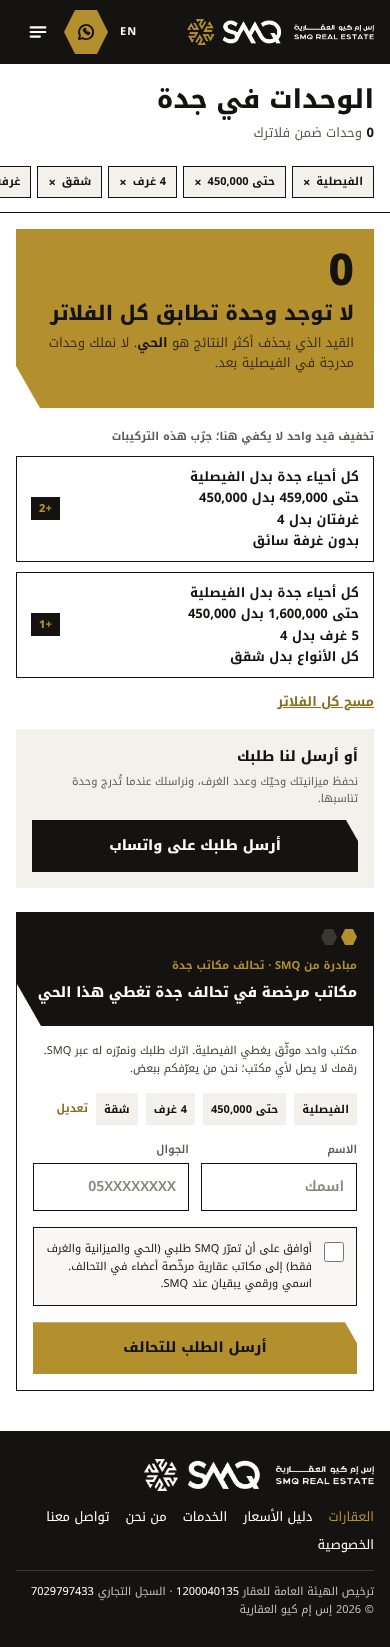
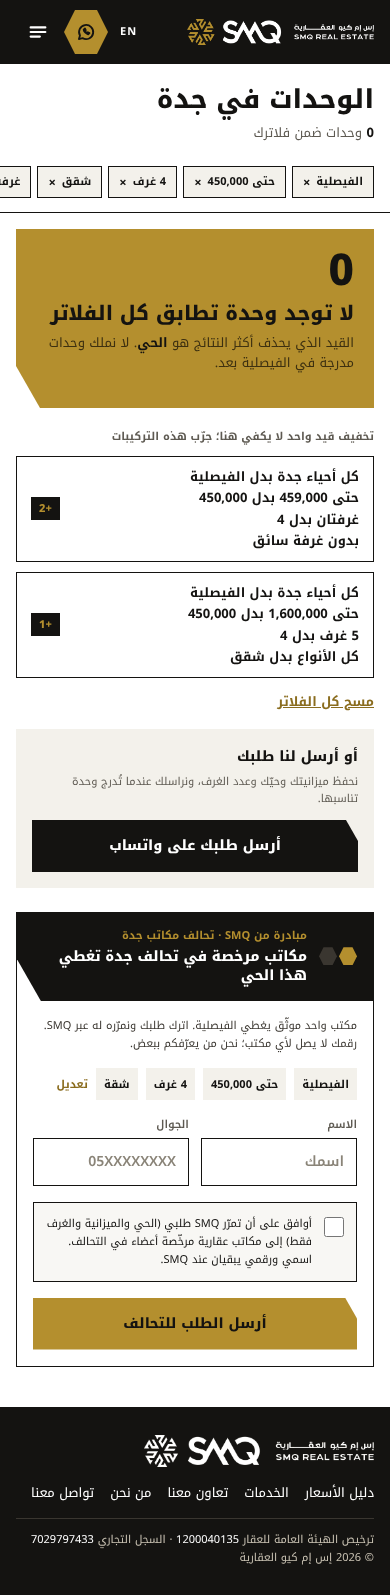
G2 board review: results, sold strip, compare bar, empty state bridge, map, request sent
- Phone sold strip opens with the latest sale; «عرض N وحدات أخرى» counts the
  folded cards and sales; sold units list newest first (AR and EN)
- Results footer links and compare bar names as drawn; toolbar and map-bar
  control heights; title row alignment
- Alliance bridge header and panel spacing on the empty state
- Map: «موقعي» button, «2 حمام» side list, budget-only registered state
- Request-sent info row hexagons

Claude-Session: https://claude.ai/code/session_01RctsPUCwu79Fhv9ujF1kfR

diff --git a/components/pages/g2/ResultsPage.tsx b/components/pages/g2/ResultsPage.tsx
@@ -3,7 +3,7 @@
 // Filters, sort and the compare selection (`u=`) live in the URL; everything shown is computed from the fixtures.
 import Link from "next/link";
 import { useEffect, useState } from "react";
-import { CompareBar, Container, Footer, Header, LoadMore, Pill, Price, Skeleton, StatusBadge, UnitCard, useCompare } from "@/components/ui";
+import { CompareBar, Container, Footer, Header, LoadMore, MENU_AR, Pill, Price, Skeleton, StatusBadge, UnitCard, useCompare } from "@/components/ui";
 import { bedsLabel, cx, fmtArea, fmtDate } from "@/lib/format";
 import { setQuery } from "@/lib/location";
 import { usePresenter, type Tier } from "@/lib/presenter";
@@ -21,7 +21,11 @@ import { useCompareUrl } from "./useCompareUrl";
 import { useHeaderOffset } from "./useHeaderOffset";
 
 const PAGE_PHONE = 4;
+/** the phone sold strip opens with the latest sale; the others come with «عرض … أخرى» (Results-M) */
+const SOLD_FIRST_PHONE = 1;
 const PAGE_DESKTOP = 6;
+/** the results footer as Results-M draws it: «دليل الأسعار · الخدمات · تعاون معنا · من نحن · تواصل معنا» */
+const RESULTS_FOOTER_LINKS = MENU_AR.filter((l) => ["/guide", "/services", "/collaborate", "/about", "/contact"].includes(l.href));
 const TIER: Record<Tier, ImageTier> = { real: "real", gen: "generated", typo: "typographic" };
 
 export const RESULTS_TITLE = "الوحدات في جدة";
@@ -46,7 +50,7 @@ function ProjectRow({ group, overrides, desktop }: { group: ProjectGroup; overri
         <span className={cx("font-extrabold", desktop ? "text-h3" : "text-[16px] leading-snug")}>{project.nameAr}</span>
         <span className="text-caption font-normal text-muted">{projectLine(project, desktop)}</span>
       </Link>
-      <Pill tone="sand" className="shrink-0">
+      <Pill tone="sand" className={cx("shrink-0", desktop && "md:px-2.5 md:py-2")}>
         {stats.available} من {stats.listed} متاحة
       </Pill>
     </div>
@@ -103,15 +107,18 @@ function flatCards(groups: ProjectGroup[]) {
   return groups.flatMap((g) => g.units.map((unit) => ({ unit, group: g })));
 }
 
-/** Results-M: project row, cards (four a page) with the delivery line, the sold strip, «عرض … أخرى» */
+/** Results-M: project row, cards (four a page) with the delivery line, the sold strip (the latest sale first), then
+ *  «عرض … أخرى» counting the cards and the sales still folded */
 function PhoneList({ groups, sold, overrides, tier }: ListProps) {
   const compare = useCompare();
   const cards = flatCards(groups);
-  const [visible, setVisible] = useState(PAGE_PHONE);
-  const remaining = Math.max(0, cards.length - visible);
+  const [pages, setPages] = useState(1);
+  const shownCards = Math.min(cards.length, pages * PAGE_PHONE);
+  const shownSold = pages > 1 ? sold.length : Math.min(sold.length, SOLD_FIRST_PHONE);
+  const remaining = cards.length - shownCards + (sold.length - shownSold);
   return (
     <div className="flex flex-col gap-3.5">
-      {regroup(cards.slice(0, visible)).map(({ group, units }) => (
+      {regroup(cards.slice(0, shownCards)).map(({ group, units }) => (
         <section key={group.project.id} aria-label={group.project.nameAr} className="flex flex-col gap-3.5">
           <ProjectRow group={group} overrides={overrides} />
           {units.map((unit) => (
@@ -119,15 +126,15 @@ function PhoneList({ groups, sold, overrides, tier }: ListProps) {
           ))}
         </section>
       ))}
-      {sold.length > 0 && (
+      {shownSold > 0 && (
         <>
           <SoldDivider />
-          {sold.map((u) => (
+          {sold.slice(0, shownSold).map((u) => (
             <UnitCard key={u.code} unit={u} status="sold" tier={tier} />
           ))}
         </>
       )}
-      {remaining > 0 && <LoadMore label={moreUnitsLabel(remaining)} onClick={() => setVisible((v) => v + PAGE_PHONE)} className="w-full" />}
+      {remaining > 0 && <LoadMore label={moreUnitsLabel(remaining)} onClick={() => setPages((n) => n + 1)} className="w-full" />}
     </div>
   );
 }
@@ -214,13 +221,13 @@ export function ResultsPage() {
     <>
       <Header showEn switchHref={unitsUrl({ ...r.filters, sheet: null, pin: null }, "/en/units")} />
       <main className="pb-10">
-        <Container className="pt-5 md:pt-8">
-          <div className="flex flex-col gap-1.5 md:flex-row md:items-center md:justify-between md:gap-6">
+        <Container className="pt-5 md:pt-9">
+          <div className="flex flex-col gap-1.5 md:flex-row md:items-end md:justify-between md:gap-6">
             <div className="flex min-w-0 flex-col gap-1.5">
               <h1 className="m-0 text-[26px] font-extrabold leading-tight md:text-[36px]">{RESULTS_TITLE}</h1>
               {status}
             </div>
-            {!isEmpty && <div className="hidden shrink-0 items-center gap-2.5 md:flex">{loading ? <ToolbarSkeleton /> : <SortControl value={r.filters.sort} onChange={sortChange} />}{!loading && <ViewToggle active="grid" gridHref={hrefs.grid} mapHref={hrefs.map} labels />}</div>}
+            {!isEmpty && <div className="hidden shrink-0 items-center gap-2.5 md:flex">{loading ? <ToolbarSkeleton /> : <SortControl value={r.filters.sort} onChange={sortChange} size="l" />}{!loading && <ViewToggle active="grid" gridHref={hrefs.grid} mapHref={hrefs.map} labels size="l" />}</div>}
           </div>
           {isEmpty && <ActiveChips filters={r.filters} className={cx("mt-4 hidden pb-4 md:flex", RULE_B)} />}
         </Container>
@@ -251,16 +258,16 @@ export function ResultsPage() {
           </Container>
         ) : (
           <>
-            <Container className="pt-4 md:hidden">{slow ? null : loading ? <PhoneListSkeleton /> : <PhoneList key={key} groups={r.groups} sold={r.result.sold} overrides={r.overrides} tier={tier} />}</Container>
+            <Container className="pt-4 md:hidden">{slow ? null : loading ? <PhoneListSkeleton /> : <PhoneList key={key} groups={r.groups} sold={r.sold} overrides={r.overrides} tier={tier} />}</Container>
             <Container className="hidden pt-6 md:grid md:grid-cols-[300px_minmax(0,1fr)] md:items-start md:gap-8">
               <div>{loading ? <FiltersColumnSkeleton /> : <FiltersColumn filters={r.filters} overrides={r.overrides} />}</div>
-              <div className="min-w-0">{slow ? null : loading ? <DesktopGridSkeleton /> : <DesktopList key={key} groups={r.groups} sold={r.result.sold} overrides={r.overrides} tier={tier} />}</div>
+              <div className="min-w-0">{slow ? null : loading ? <DesktopGridSkeleton /> : <DesktopList key={key} groups={r.groups} sold={r.sold} overrides={r.overrides} tier={tier} />}</div>
             </Container>
           </>
         )}
       </main>
       <CompareBar nameOf={(slug) => (unitBySlug(slug) ? compareName(unitBySlug(slug)!) : undefined)} />
-      <Footer compact />
+      <Footer compact links={RESULTS_FOOTER_LINKS} />
       <FiltersSheet filters={r.filters} overrides={r.overrides} />
     </>
   );

diff --git a/components/pages/g2/ResultsToolbar.tsx b/components/pages/g2/ResultsToolbar.tsx
@@ -54,12 +54,13 @@ export function FiltersButton({ count, href, variant = "list", className }: { co
 
 /**
  * «الترتيب: السعر، الأقل أولاً ▾» · a ghost control over a native select. `stacked` (the phone toolbar) puts the
- * prefix above the value so both fit the 136px the row leaves.
+ * prefix above the value so both fit the 136px the row leaves. Heights as drawn: `s` 36px (Results-Map-D bar),
+ * `m` 44px, `l` 48px (Results-D toolbar).
  */
-export function SortControl({ value, onChange, options, label = "الترتيب", prefix = "الترتيب:", stacked, size = "m", className }: { value: SortParam; onChange: (s: SortParam) => void; options?: { value: SortParam; label: string }[]; label?: string; prefix?: string | null; stacked?: boolean; size?: "m" | "s"; className?: string }) {
+export function SortControl({ value, onChange, options, label = "الترتيب", prefix = "الترتيب:", stacked, size = "m", className }: { value: SortParam; onChange: (s: SortParam) => void; options?: { value: SortParam; label: string }[]; label?: string; prefix?: string | null; stacked?: boolean; size?: "s" | "m" | "l"; className?: string }) {
   const opts = options ?? (Object.keys(SORT_LABELS) as SortParam[]).map((k) => ({ value: k, label: SORT_LABELS[k] }));
   const current = opts.find((o) => o.value === value) ?? opts[0];
-  const box = stacked ? "h-11 gap-1 px-2" : size === "s" ? "h-10 gap-2 px-2.5 text-[12px] font-bold" : "h-11 gap-2 px-3 text-label font-bold";
+  const box = stacked ? "h-11 gap-1 px-2" : size === "s" ? "h-9 gap-2 px-2.5 text-[12px] font-bold" : size === "l" ? "h-12 gap-4 px-3.5 text-label font-bold" : "h-11 gap-2 px-3 text-label font-bold";
   return (
     <span className={cx("relative inline-flex min-w-0 items-center justify-between border-interactive bg-paper text-ink", box, className)}>
       {stacked ? (
@@ -85,12 +86,18 @@ export function SortControl({ value, onChange, options, label = "الترتيب"
   );
 }
 
-/** Grid / map toggle: the active side is ink; the other side links to the other view with the same query */
-export function ViewToggle({ active, gridHref, mapHref, labels, size = "m", className }: { active: "grid" | "map"; gridHref: string; mapHref: string; labels?: boolean | "map"; size?: "m" | "s"; className?: string }) {
-  const item = cx("inline-flex h-full items-center justify-center gap-1.5 no-underline", labels ? "px-3" : "w-11", size === "s" ? "text-caption font-bold" : "text-label font-bold");
+const TOGGLE_H = { s: "h-[34px]", bar: "h-9", m: "h-11", l: "h-12" } as const;
+
+/**
+ * Grid / map toggle: the active side is ink; the other side links to the other view with the same query. Heights as
+ * drawn: `s` 34px (Results-Map-M bar), `bar` 36px (Results-Map-D bar), `m` 44px (phone toolbar), `l` 48px (Results-D).
+ */
+export function ViewToggle({ active, gridHref, mapHref, labels, size = "m", className }: { active: "grid" | "map"; gridHref: string; mapHref: string; labels?: boolean | "map"; size?: keyof typeof TOGGLE_H; className?: string }) {
+  const small = size === "s" || size === "bar";
+  const item = cx("inline-flex h-full items-center justify-center no-underline", labels ? (size === "s" || size === "m" ? "gap-1.5 px-3" : "gap-2 px-3.5") : "w-11 gap-1.5", small ? "text-caption font-bold" : "text-label font-bold");
   const words = labels === true || labels === "map";
   return (
-    <div role="group" aria-label="طريقة العرض" className={cx("inline-flex shrink-0 items-stretch border-interactive bg-paper", size === "s" ? "h-[34px]" : "h-11", className)}>
+    <div role="group" aria-label="طريقة العرض" className={cx("inline-flex shrink-0 items-stretch border-interactive bg-paper", TOGGLE_H[size], className)}>
       {active === "grid" ? (
         <span aria-current="true" aria-label={words ? undefined : "شبكة"} className={cx(item, "bg-ink text-paper")}>
           <GridIcon />

diff --git a/components/pages/g2/MapPage.tsx b/components/pages/g2/MapPage.tsx
@@ -135,12 +135,12 @@ function SideList({ pin, overrides, filters }: { pin: ResultPin | null; override
         {matched.map((u) => (
           <Link key={u.code} href={`/units/${u.slug}`} className="flex items-center gap-3 border-interactive bg-paper p-3 text-ink no-underline outline-gold -outline-offset-2 hover:outline-2 motion-hover">
             <ImageSlot slotId={u.images[0]} tier="generated" className="h-[72px] w-24 shrink-0" cut="img" showId={false} label={false} compact />
-            <span className="flex min-w-0 flex-1 flex-col gap-0.5">
+            <span className="flex min-w-0 flex-1 flex-col gap-1.5">
               <span className="text-label font-extrabold">
                 {u.code} · {UNIT_TYPE_AR[u.type]} · {u.buildingNameAr}
               </span>
               <span className="text-caption font-normal text-muted">
-                {bedsLabel(u.beds)} · {bathsLabel(u.baths)} · {fmtArea(u.areaM2)} م²
+                {bedsLabel(u.beds)} · {u.baths === 2 ? "2 حمام" : bathsLabel(u.baths)} · {fmtArea(u.areaM2)} م²
               </span>
               <span className="text-body font-extrabold tnum">
                 {fmtNum(u.priceSar)} <span className="text-caption font-semibold text-muted">{fmtNum(unitPpm(u))} للمتر</span>
@@ -189,6 +189,19 @@ export function MapPage() {
   const listHref = unitsUrl({ ...r.filters, sheet: null, pin: null });
   const close = () => setQuery({ pin: null }, "replace");
   const select = (id: string) => setQuery({ pin: id === r.filters.pin ? null : id }, "replace");
+  // «موقعي» (Results-Map-M): the browser's position selects the nearest pin; without a position the map stays as it is
+  const locate = () => {
+    if (typeof navigator === "undefined" || !navigator.geolocation) return;
+    navigator.geolocation.getCurrentPosition(
+      ({ coords }) => {
+        const d = (p: ResultPin) => (p.pin.centre.lat - coords.latitude) ** 2 + (p.pin.centre.lng - coords.longitude) ** 2;
+        const near = [...pins].sort((a, b) => d(a) - d(b))[0];
+        if (near) setQuery({ pin: near.id }, "replace");
+      },
+      () => {},
+      { timeout: 8000, maximumAge: 600_000 },
+    );
+  };
   const sortChange = (s: SortParam) => setQuery({ sort: s === "price" ? null : s }, "replace");
   const addChips = [!r.filters.district && "+ الحي", !r.filters.type.length && "+ النوع"].filter(Boolean) as string[];
   const hasChips = r.constraints.length > 0;
@@ -246,7 +259,7 @@ export function MapPage() {
                 ترتيب
                 <SortControl value={r.filters.sort} onChange={sortChange} options={MAP_SORT} prefix={null} label="ترتيب" size="s" />
               </label>
-              <ViewToggle active="map" gridHref={hrefs.grid} mapHref={hrefs.map} labels="map" className="h-10" />
+              <ViewToggle active="map" gridHref={hrefs.grid} mapHref={hrefs.map} labels="map" size="bar" />
             </div>
           </Container>
         </div>
@@ -255,7 +268,7 @@ export function MapPage() {
           <div className={cx("hidden min-h-0 md:flex md:flex-col", RULE_E)}>
             <SideList pin={selected} overrides={r.overrides} filters={r.filters} />
           </div>
-          <SchematicMap variant="phone" pins={pins} selectedId={selected?.id ?? null} onSelect={select} regionLabel="جدة · شمال وسط" className="min-h-[260px] flex-1 md:hidden" />
+          <SchematicMap variant="phone" pins={pins} selectedId={selected?.id ?? null} onSelect={select} onLocate={locate} regionLabel="جدة · شمال وسط" className="min-h-[260px] flex-1 md:hidden" />
           <SchematicMap
             variant="desktop"
             pins={pins}

diff --git a/components/pages/g2/EmptyState.tsx b/components/pages/g2/EmptyState.tsx
@@ -100,11 +100,12 @@ export function EmptyState({ filters, empty, className }: { filters: UnitFilters
   );
 }
 
-function HexDots({ count, className }: { count: number; className?: string }) {
+/** the bridge's mark: one gold hexagon, then ink-2 ones (18px / 2px apart on the phone, 26px / 3px on desktop) */
+function HexDots({ count, size, className }: { count: number; size: string; className?: string }) {
   return (
-    <span aria-hidden="true" className={cx("flex items-center gap-1", className)}>
+    <span aria-hidden="true" className={cx("flex items-center", className)}>
       {Array.from({ length: count }).map((_, i) => (
-        <span key={i} className={cx("hex-flat inline-block size-4", i === 0 ? "bg-gold" : "bg-ink-2")} />
+        <span key={i} className={cx("hex-flat inline-block", size, i === 0 ? "bg-gold" : "bg-ink-2")} />
       ))}
     </span>
   );
@@ -157,15 +158,18 @@ export function AllianceBridge({ filters, className }: { filters: UnitFilters; c
 
   return (
     <section aria-labelledby={`${uid}-title`} className={cx("grid border-interactive bg-paper md:grid-cols-[380px_minmax(0,1fr)]", className)}>
-      <div className="flex flex-col gap-2 bg-ink px-4 pb-6 pt-4 text-paper cut-img md:[clip-path:none] md:px-6 md:py-6">
-        <HexDots count={2} className="md:hidden" />
-        <HexDots count={3} className="hidden md:flex" />
-        <span className="mt-1 text-caption font-bold text-gold">مبادرة من SMQ · تحالف مكاتب جدة</span>
-        <h2 id={`${uid}-title`} className="m-0 text-body font-extrabold leading-snug md:text-[22px] md:leading-tight">
-          مكاتب مرخصة في تحالف جدة تغطي هذا الحي
-        </h2>
-        <p className="m-0 hidden text-label font-normal text-on-ink-muted md:block">{intro} ونسجّل التعارف.</p>
-        <Link href="/alliance" className="hidden text-caption font-bold text-gold no-underline hover:underline md:inline">
+      {/* phone: the two hexagons beside the eyebrow and title (State-Empty-M) · desktop: a column with three (State-Empty-D) */}
+      <div className="flex items-center gap-3 bg-ink px-4 pb-4 pt-3.5 text-paper cut-img md:flex-col md:items-stretch md:[clip-path:none] md:px-6 md:py-6.5">
+        <HexDots count={2} size="size-4.5" className="shrink-0 gap-0.5 md:hidden" />
+        <HexDots count={3} size="size-6.5" className="hidden gap-0.75 md:flex" />
+        <div className="flex min-w-0 flex-1 flex-col gap-0.5 md:gap-3">
+          <span className="text-caption font-bold text-gold">مبادرة من SMQ · تحالف مكاتب جدة</span>
+          <h2 id={`${uid}-title`} className="m-0 text-body font-extrabold leading-snug md:text-[22px] md:leading-tight">
+            مكاتب مرخصة في تحالف جدة تغطي هذا الحي
+          </h2>
+          <p className="m-0 hidden text-label font-normal text-on-ink-muted md:block">{intro} ونسجّل التعارف.</p>
+        </div>
+        <Link href="/alliance" className="hidden text-caption font-bold text-gold underline underline-offset-2 hover:text-paper md:mt-auto md:inline">
           ما التحالف؟ ←
         </Link>
       </div>

diff --git a/components/pages/g2/useResults.ts b/components/pages/g2/useResults.ts
@@ -9,7 +9,7 @@ import { parseFilters, type UnitFilters } from "@/lib/url";
 import { activeConstraints, emptyStateSuggestions, filterUnits, latestUpdate, type EmptyState, type FilterResult, type UnitOverrides } from "@/data/selectors";
 import { projectById, projects } from "@/data/projects";
 import type { Project, Unit } from "@/data/types";
-import { filtersKey } from "./shared";
+import { filtersKey, latestSoldFirst } from "./shared";
 
 export const FILTER_SKELETON_MS = 400;
 
@@ -23,6 +23,8 @@ export interface ResultsState {
   overrides: UnitOverrides;
   result: FilterResult;
   groups: ProjectGroup[];
+  /** the matching sold units, latest sale first (the «مباعة، للمرجع فقط» strip) */
+  sold: Unit[];
   constraints: ReturnType<typeof activeConstraints>;
   empty: EmptyState;
   updatedAt: string;
@@ -72,6 +74,7 @@ export function useResults(): ResultsState {
       .map(([id, units]) => ({ project: projectById(id) ?? projects[0], units }))
       .filter((g) => !!g.project);
   }, [result.matched]);
+  const sold = useMemo(() => latestSoldFirst(result.sold), [result.sold]);
   const constraints = useMemo(() => activeConstraints(filters), [filters]);
   const empty = useMemo(() => emptyStateSuggestions(filters, overrides), [filters, overrides]);
   const updatedAt = useMemo(() => latestUpdate(result.matched.length ? result.matched : undefined), [result.matched]);
@@ -81,6 +84,7 @@ export function useResults(): ResultsState {
     overrides,
     result,
     groups,
+    sold,
     constraints,
     empty,
     updatedAt,

diff --git a/components/pages/g2/RequestSent.tsx b/components/pages/g2/RequestSent.tsx
@@ -124,11 +124,11 @@ export function RequestSent() {
             <div className="flex flex-col border-interactive">
               {rows.map((row, i) => (
                 <div key={row.title} className={cx("flex items-start gap-3 px-3.5 py-2.5 text-caption font-normal leading-relaxed", i > 0 && "border-t border-line")}>
-                  <span aria-hidden="true" className="relative mt-1 inline-flex size-3.5 shrink-0 items-center justify-center">
+                  <span aria-hidden="true" className="relative mt-1.5 inline-flex size-2.5 shrink-0 items-center justify-center">
                     {row.tone === "bg-paper ring-hex" ? (
                       <>
                         <span className="hex-point absolute inset-0 bg-ink" />
-                        <span className="hex-point absolute inset-[2px] bg-paper" />
+                        <span className="hex-point absolute inset-[1.5px] bg-paper" />
                       </>
                     ) : (
                       <span className={cx("hex-point absolute inset-0", row.tone)} />

diff --git a/components/pages/g2/shared.ts b/components/pages/g2/shared.ts
@@ -103,9 +103,14 @@ export function projectsWord(n: number): string {
   return `${n} مشروعاً`;
 }
 
-/** «نموذج D روز» · «روف ياسمين» (compare bar names) */
+/** «نموذج D روز» · «روف ياسمين» (compare bar names, Results-D) */
 export function compareName(unit: Unit): string {
-  return `${modelLabel(unit)} ${unit.buildingNameAr}`;
+  return unit.type === "roof-villa" ? `${modelLabel(unit)} ${unit.buildingNameAr}` : `نموذج ${modelLabel(unit)} ${unit.buildingNameAr}`;
+}
+
+/** The sold strip's order: the latest sale first (Results-M/D: «A · ياسمين» 2026/09 before «C · ياسمين» 2026/08) */
+export function latestSoldFirst(list: Unit[]): Unit[] {
+  return [...list].sort((a, b) => (b.soldOn ?? "").localeCompare(a.soldOn ?? ""));
 }
 
 /** «غرفتان و3 غرف» from a list of units */

diff --git a/lib/screens/g2-results.ts b/lib/screens/g2-results.ts
@@ -4,7 +4,8 @@ const RESULTS = "/units?district=rawdah&max=700000&type=apt";
 // the boards show two units ticked for comparison (D روز, D ياسمين): the selection lives in the URL as on /compare
 const RESULTS_COMPARE = `${RESULTS}&u=rz-d,ys-d`;
 const EMPTY = "/units?district=faisaliyah&max=450000&beds=4&type=apt&feat=driver";
-const MAP = "/units/map?district=rawdah&max=700000&type=apt&pin=rwd-01";
+// the map boards search by budget only (no district or type: the desktop bar shows «+ الحي» and «+ النوع»)
+const MAP = "/units/map?max=700000&pin=rwd-01";
 const R1 = "1–12 · Public site, round 1";
 const R2 = "23–29 · Public, round 2";
 

diff --git a/components/pages/g2/EnResults.tsx b/components/pages/g2/EnResults.tsx
@@ -55,7 +55,7 @@ export function EnResults() {
                 <span aria-hidden="true" className="h-px flex-1 bg-line" />
               </div>
               <div className="mt-4 flex flex-col gap-4 md:grid md:grid-cols-[repeat(auto-fill,minmax(min(280px,100%),1fr))]">
-                {r.result.sold.map((u) => (
+                {r.sold.map((u) => (
                   <UnitCard key={u.code} unit={u} status="sold" tier={tier} lang="en" />
                 ))}
               </div>
